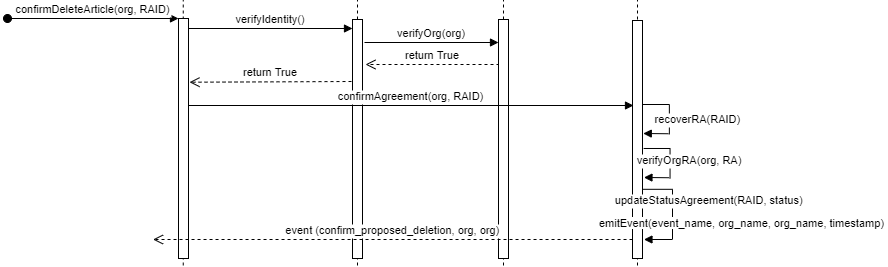
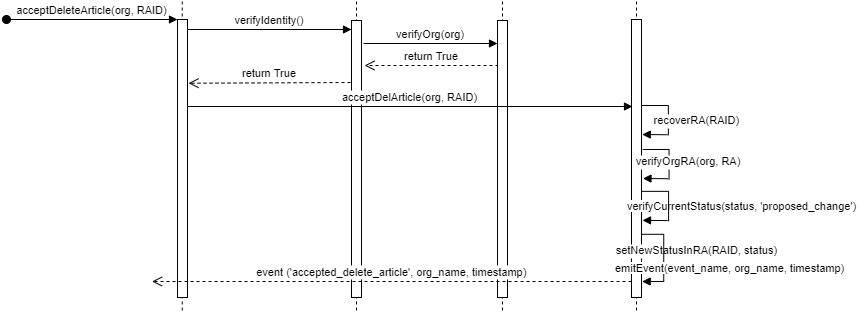
10.08.25

Changed region(s): [[0.0, 0.0, 0.9988, 0.9888]]

diff --git a/chaincode/documentation/README.md b/chaincode/documentation/README.md
@@ -125,6 +125,15 @@
 <img src="https://github.com/sfl0r3nz05/NLP-DLT/blob/main/chaincode/documentation/images/deleteArticle1.png">       
 <img src="https://github.com/sfl0r3nz05/NLP-DLT/blob/main/chaincode/documentation/images/deleteArticle2.png">
 
+### Confirmation of Article Deletion
+- The other MNO must validate the article deletion.
+- Identity is verified.
+- The inputs are `json org` and `RAID`.
+- The previous state (`proposed_changes`) is verified.
+- An event is emitted to set the state `accepted_delete_article`.
+<img src="https://github.com/sfl0r3nz05/NLP-DLT/blob/main/chaincode/documentation/images/confirmDeleteArticle1.png">       
+<img src="https://github.com/sfl0r3nz05/NLP-DLT/blob/main/chaincode/documentation/images/confirmDeleteArticle2.png">
+
 ### State-to-state-transition
 - Actions implies change of state. 
 - The chaincode validates the changes of states.
